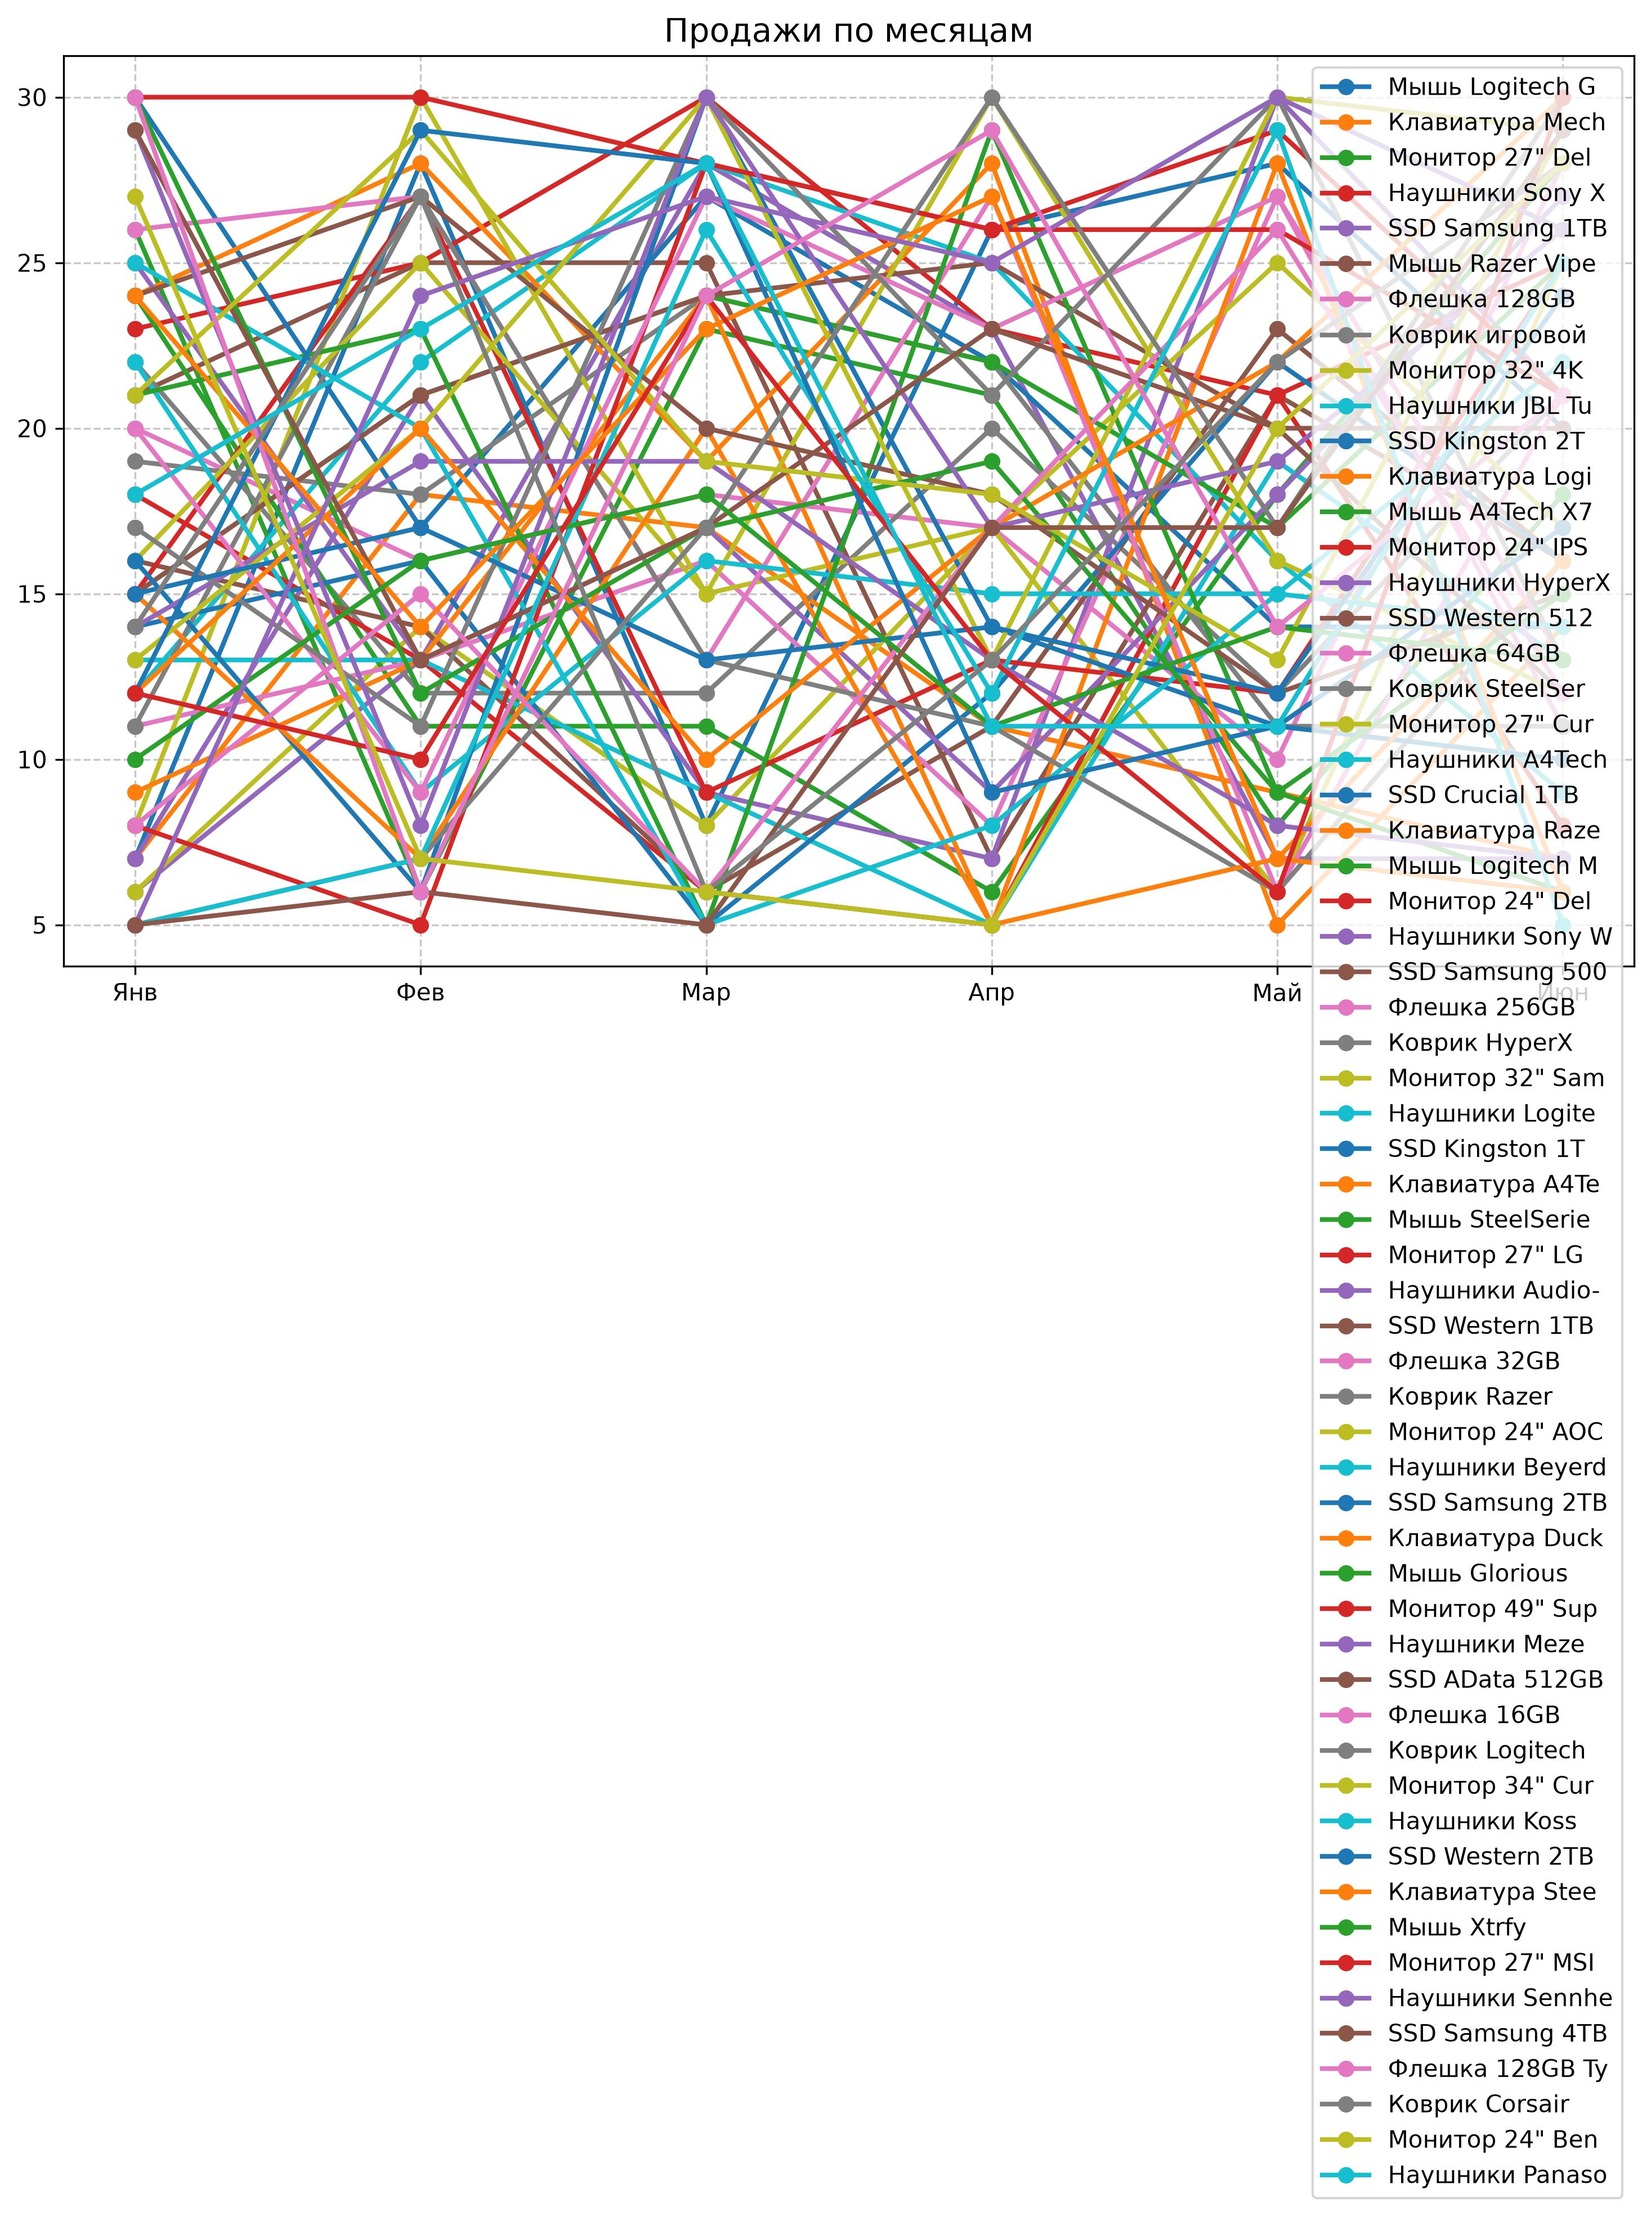
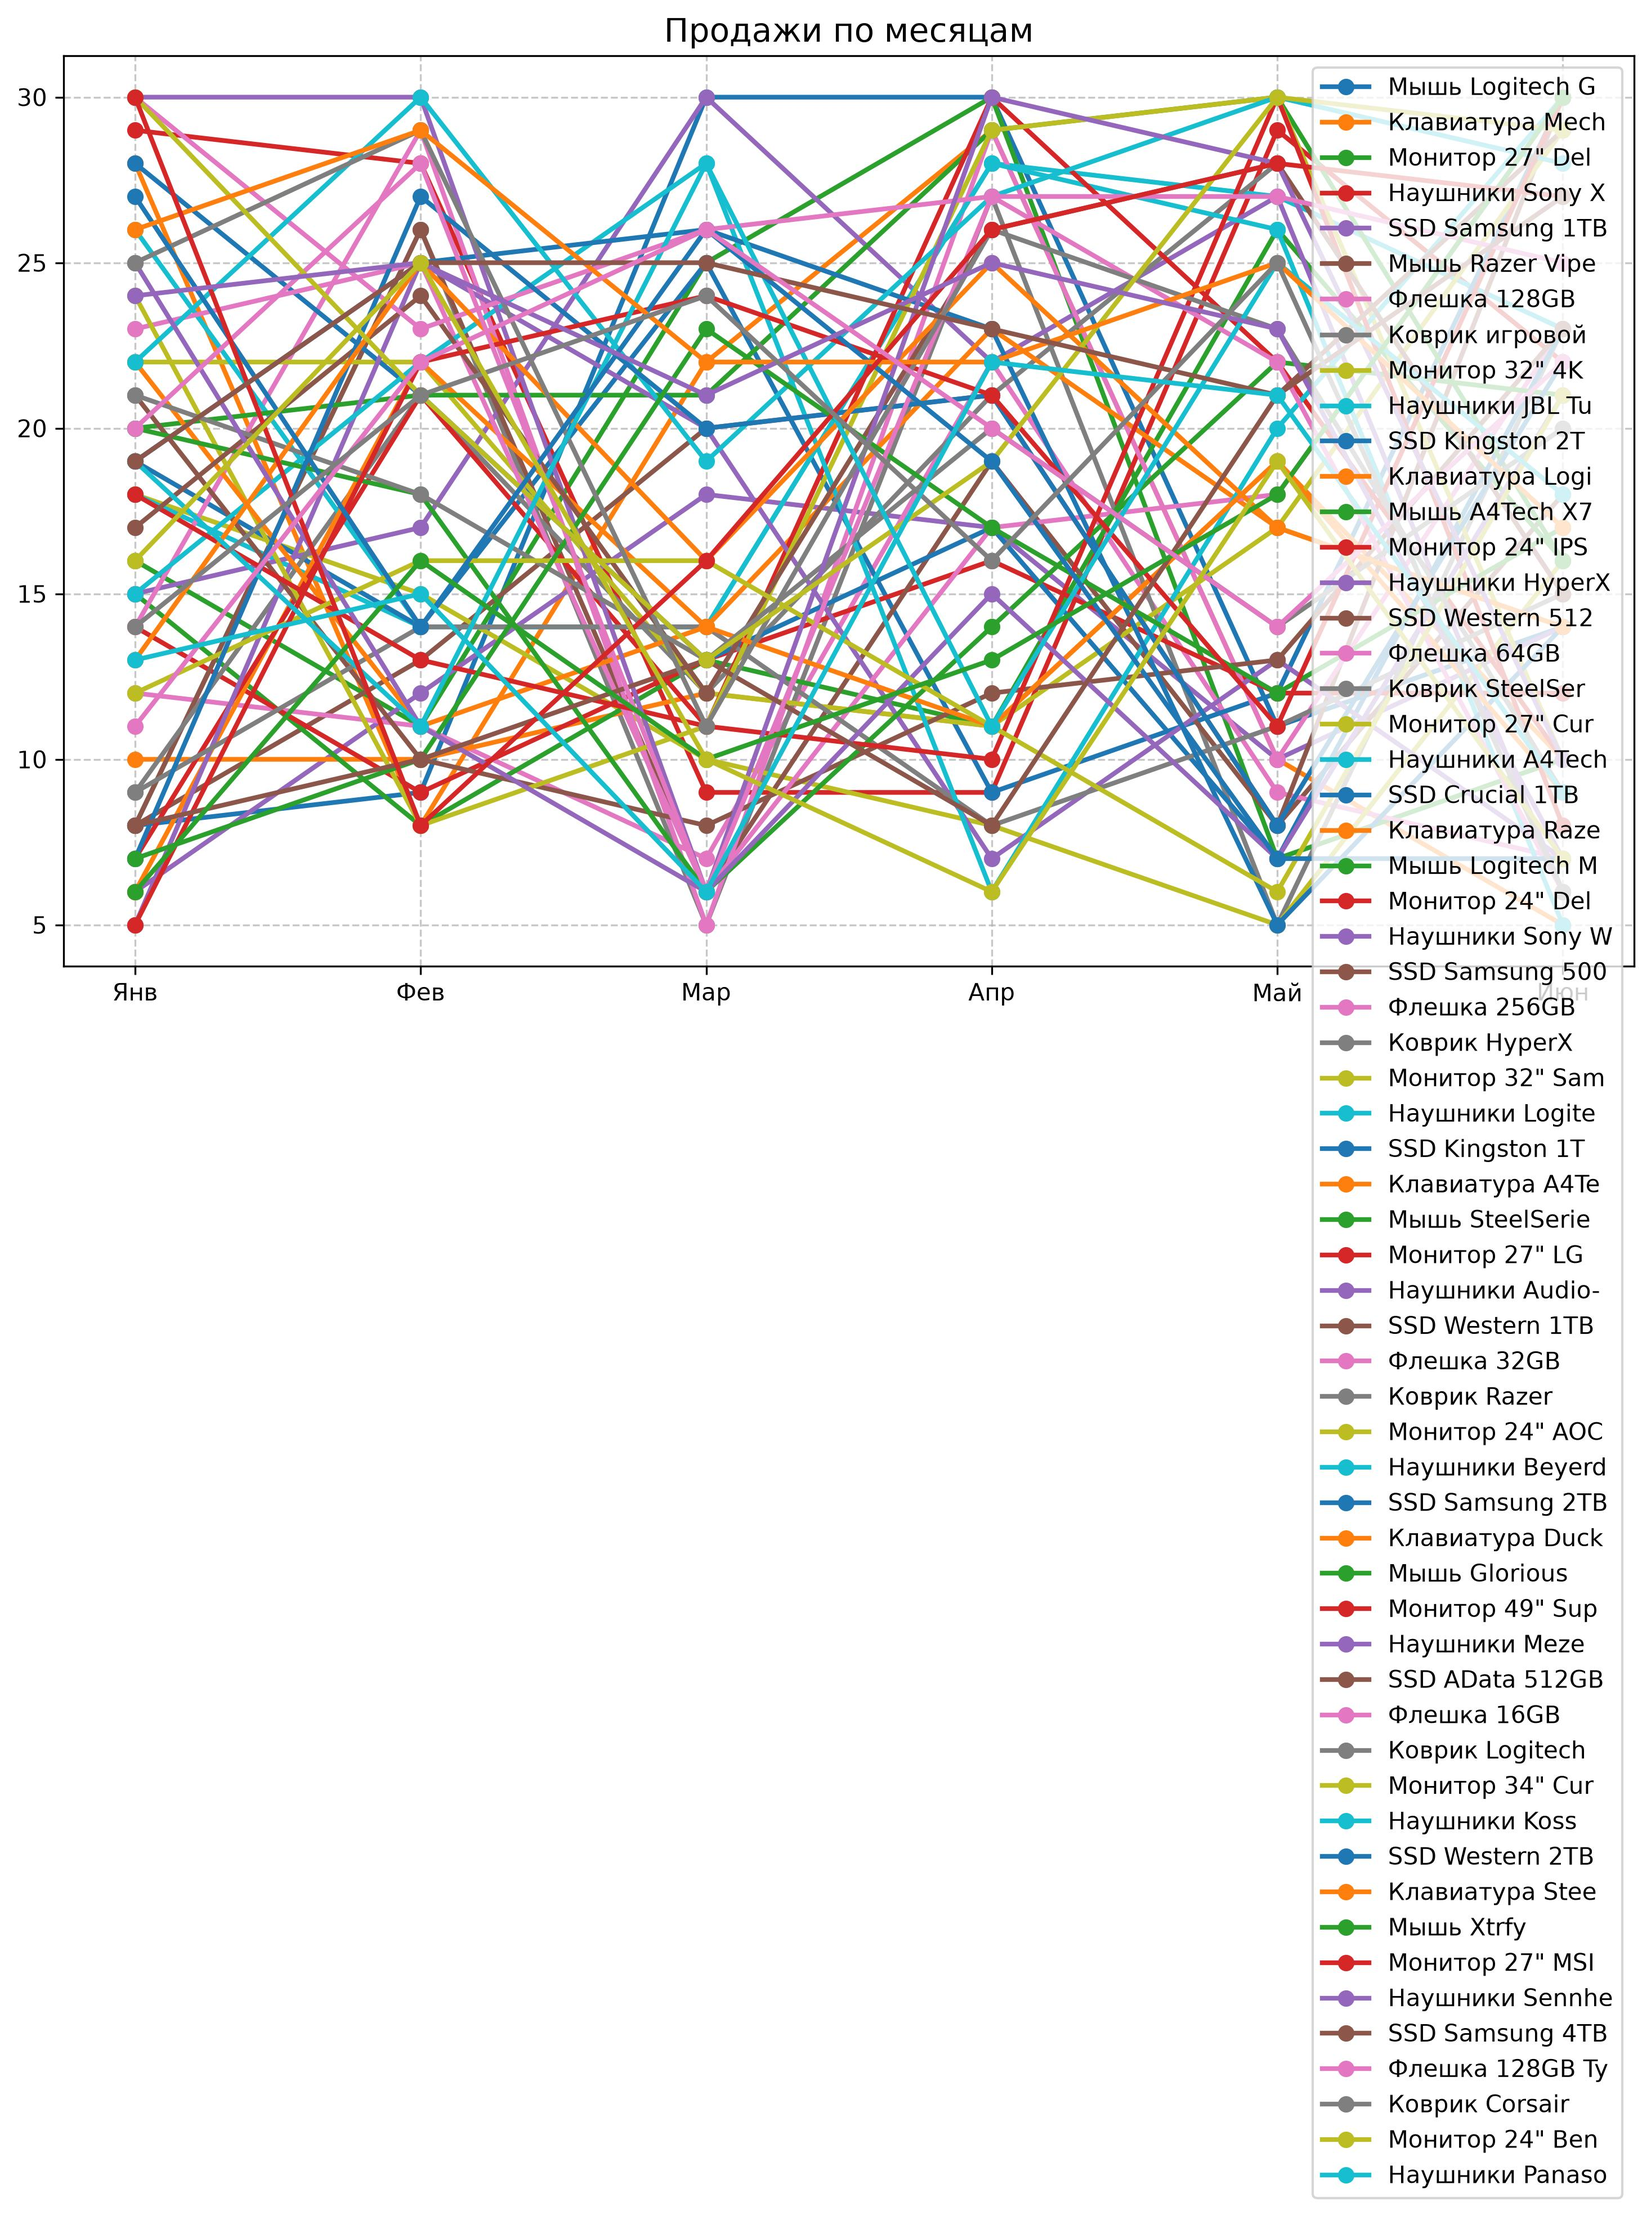
fix: удалил дублирующуюся кнопку в 5-й вкладке

Changed region(s): [[0.0621, 0.031, 0.9618, 0.4342]]

diff --git a/StockInsight/StockInsight/StockInsight.cpp b/StockInsight/StockInsight/StockInsight.cpp
@@ -188,6 +188,12 @@ StockInsight::StockInsight(QWidget* parent)
     chartsWrapperLayout->setContentsMargins(0, 0, 0, 0);
     chartsWrapper->setMinimumHeight(150);
 
+    // --- ЗАГЛУШКА ДЛЯ ГРАФИКОВ ---
+    chartsPlaceholder = new QLabel("📈 Графики не созданы\n\nНажмите «Показать графики» для генерации");
+    chartsPlaceholder->setAlignment(Qt::AlignCenter);
+    chartsPlaceholder->setStyleSheet("font-size: 16px; color: #6c7086; padding: 50px;");
+    chartsWrapperLayout->addWidget(chartsPlaceholder);
+
     // --- Вкладки для графиков (с layout'ами для картинок) ---
     tabs = new QTabWidget();
     chartLayouts.clear();
@@ -201,6 +207,9 @@ StockInsight::StockInsight(QWidget* parent)
         chartLayouts.append(layout);
     }
     chartsWrapperLayout->addWidget(tabs);
+    
+    // Изначально вкладки скрыты, видна только заглушка
+    tabs->setVisible(false);
 
     // Подключаем сигнал смены вкладки для установки курсора
     connect(tabs, &QTabWidget::currentChanged, this, &StockInsight::onTabChanged);
@@ -367,6 +376,10 @@ void StockInsight::clearTable()
         chartsVisible = false;
         showChartsBtn->setText("📈 Показать графики");
         showChartsBtn->setToolTip("Сгенерировать и показать графики");
+        tabs->setVisible(false);
+        if (chartsPlaceholder) {
+            chartsPlaceholder->setVisible(true);
+        }
     }
 
     table->setRowCount(0);
@@ -435,6 +448,12 @@ void StockInsight::runPythonScript(const QString& csvPath)
 // ЗАГРУЗКА КАРТИНОК ВО ВКЛАДКИ С КНОПКОЙ СОХРАНЕНИЯ
 void StockInsight::loadChartsToTabs()
 {
+    // Скрываем заглушку, показываем вкладки
+    if (chartsPlaceholder) {
+        chartsPlaceholder->setVisible(false);
+    }
+    tabs->setVisible(true);
+
     // Очищаем старые виджеты во вкладках
     for (int i = 0; i < chartLayouts.size(); ++i) {
         QLayout* layout = chartLayouts[i];
@@ -489,15 +508,8 @@ void StockInsight::loadChartsToTabs()
 
     // --- 5-я вкладка: История выбранных ---
     if (chartLayouts.size() > 4) {
-        // Добавляем кнопку сохранения
-        QPushButton* saveChartBtn = new QPushButton("💾 Сохранить JPEG");
-        saveChartBtn->setToolTip("Сохранить этот график в JPEG-файл");
-        chartLayouts[4]->addWidget(saveChartBtn, 0, Qt::AlignCenter);
-        connect(saveChartBtn, &QPushButton::clicked, this, [this]() {
-            exportCurrentChart(4);
-            });
-
-        // Загружаем график
+        // НЕ добавляем кнопку здесь! Она создаётся в loadSelectedCharts()
+        chartsVisible = true;
         loadSelectedCharts();
     }
 
@@ -526,6 +538,12 @@ void StockInsight::showCharts()
         chartsVisible = false;
         showChartsBtn->setText("📈 Показать графики");
         showChartsBtn->setToolTip("Сгенерировать и показать графики");
+
+        // Показываем заглушку, скрываем вкладки
+        if (chartsPlaceholder) {
+            chartsPlaceholder->setVisible(true);
+        }
+        tabs->setVisible(false);
 
         updateButtonsState();
         return;

diff --git a/StockInsight/StockInsight/StockInsight.h b/StockInsight/StockInsight/StockInsight.h
@@ -67,6 +67,7 @@ private:
     QLineEdit* searchEdit;                  // Поле поиска по таблице
     QComboBox* colorFilter;                 // Выпадающий список для фильтра по цвету
     QComboBox* categoryFilter;              // Выпадающий список для фильтра по категории
+    QLabel* chartsPlaceholder;              // Заглушка для графиков
 
     // --- Виджеты статистики ---
     QLabel* totalProductsLabel;             // Всего товаров
@@ -83,10 +84,12 @@ private:
     bool isDarkTheme = true;                // Текущая тема: true — тёмная, false — светлая
     bool isTableCleared = false;            // Флаг: была ли таблица очищена
     bool chartsVisible = false;             // Флаг: показаны ли графики
+    bool isFirstChartLoad = true;           // Флаг: первая загрузка графиков (для 5-й вкладки)
 
     // --- Вкладки и графики ---
     QTabWidget* tabs;                       // Вкладки для графиков
     QVector<QVBoxLayout*> chartLayouts;     // Layout'ы для вкладок, чтобы добавлять картинки
+    QWidget* chartsWrapper;                 // Обёртка для вкладок с графиками
 
     // --- Данные от бэкенда ---
     Analytics currentAnalytics;             // Хранит аналитику от Димы
